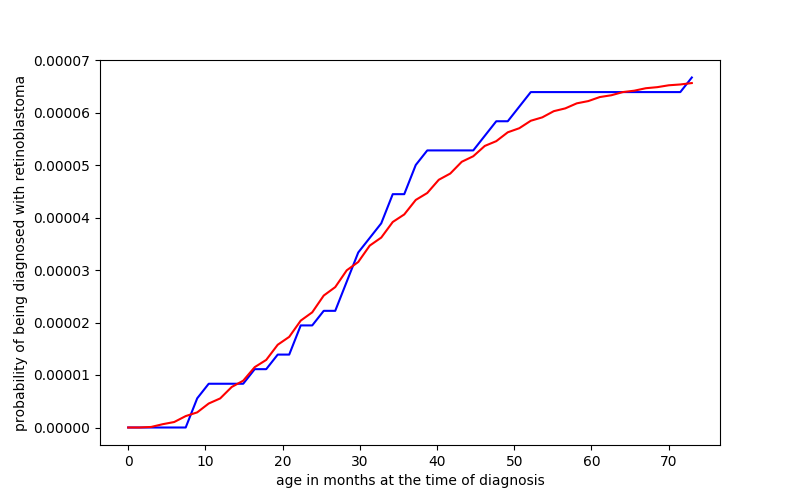
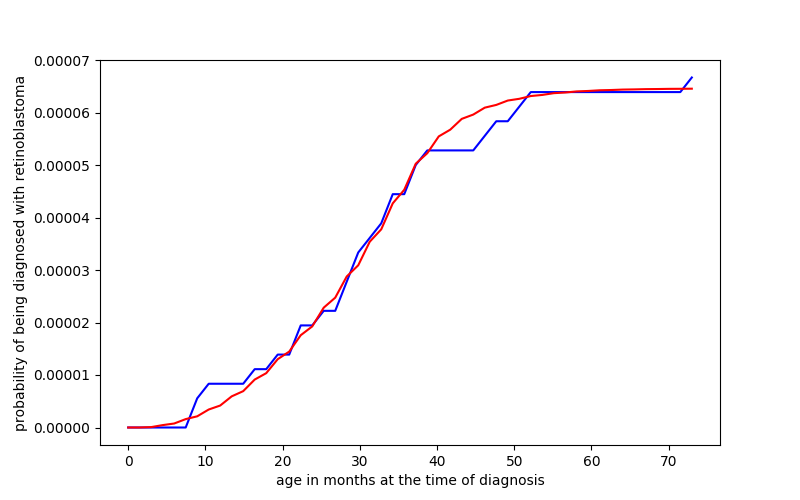
first implementation of 1(iv) all working

diff --git a/asgn1.py b/asgn1.py
@@ -2,14 +2,14 @@ from cancer import *
 
 unilateral = [] # Stores unilateral retinoblastoma data set
 p1, p2 = 0., 0. # Random hit probabilities
-ecdf = lambda t: sm.distributions.ECDF(unilateral)(t)*rb_rate # Empirical cdf of age at the time of diagnosis 
-# of unilateral retinoblastoma 
+ecdf = 0 # Empirical cdf of age at the time of diagnosis of unilateral retinoblastoma 
 
 def assignment_1_i():
-	global unilateral, ecdf_norm
+	global unilateral, ecdf
 	print('Problem 1(i)\n{}'.format(div))
 	unilateral = read_data("./../data/03_cancer_unilateralretinoblastoma.csv")[0]
-	
+	ecdf = lambda t: sm.distributions.ECDF(unilateral)(t)*rb_rate
+
 	def model(t, p): 
 		return (1-((1-p)**t + t*p*(1-p)**(t-1))**(2*cell_count))*rb_rate
 
@@ -33,18 +33,18 @@ def assignment_1_ii():
 		while i <= T:
 			total = total + _p1*(1-_p1)**(i-1)*(1-_p2)**(T-i)
 			i = i+1
-		return (1 - total**(2*cell_count))*rb_rate
+		return (1 - total**(2*cell_count))
 
 	def loss(p):
-		return sum([(model(t, p)-ecdf(t))**2 for t in range(36)])
+		return integrate.quad(lambda t: (ecdf(t)-model(t, p))**2, 0, 36)[0]
 
-	p1, p2 = op.minimize(loss, [1e-6, 40e-6]).x
+	p1, p2 = op.minimize(loss, [40e-8, 1e-8]).x
 	result = lambda t: model(t, [p1, p2])
-	print('p1 = {}, p2 = {}, relative error =  {}%\n{}'.format(p1, p2, rel_err(ecdf, result, [0, 73]), div))
+	print('p1 = {}, p2 = {}, relative error =  {}%\n{}'.format(p1, p2, rel_err(ecdf, result, [0, 36]), div))
 	fit_plot(ecdf, result, [0, 73], 'age in months at the time of diagnosis',\
 	 'probability of being diagnosed with retinoblastoma', 'two random factors (unilateral)')
 
-def assignment_1_iii():
+def assignment_1_iv():
 	print('Problem 1(iii)\n{}'.format(div))
 
 	def model(t, a):
@@ -60,14 +60,42 @@ def assignment_1_iii():
 				j = j+1
 			total = total + p1*(1-p1)**(i-1)*prod
 			i = i+1
-		return (1 - total**(2*cell_count))*rb_rate
+		return (1 - total**(2*cell_count))
 
 	def loss(a):
-		return sum([(model(t, a)-ecdf(t))**2 for t in range(73)])
+		return integrate.quad(lambda t: (ecdf(t)-model(t, a))**2, 0, 73)[0]
 
-	a = op.minimize_scalar(loss, bounds=(0,1), method='bounded').x
+	a = op.minimize_scalar(loss, bounds=(0, 5), method='bounded').x
 	result = lambda t: model(t, a)
-	print('a = {}, relative error =  {}%'.format(a, rel_err(ecdf, result, [0, 73])))
+	print('a = {}, relative error =  {}%\n{}'.format(a, rel_err(ecdf, result, [0, 73]), div))
 	fit_plot(ecdf, result, [0, 73], 'age in months at the time of diagnosis',\
 	 'probability of being diagnosed with retinoblastoma', 'decaying p2 (unilateral)')
+				
+
+def assignment_1_iv():
+	print('Problem 1(iii)\n{}'.format(div))
+
+	def model(t, a):
+		i, T =  1, int(t)
+		total = (1-p1)**T
+		while i <= T:
+			j, prod = 1, 1
+			while j <= i-1:
+				if j <= 36:
+					prod = prod*(1-p1)
+				else:
+					prod = prod*(1-p1*np.exp(-a*(j-36)))
+				j = j+1
+			total = total + p1*(1-p2)**(T-i)*prod
+			i = i+1
+		return (1 - total**(2*cell_count))
+
+	def loss(a):
+		return integrate.quad(lambda t: (ecdf(t)-model(t, a))**2, 0, 73)[0]
+
+	a = op.minimize_scalar(loss, bounds=(0, 10), method='bounded').x
+	result = lambda t: model(t, a)
+	print('a = {}, relative error =  {}%\n{}'.format(a, rel_err(ecdf, result, [0, 73]), div))
+	fit_plot(ecdf, result, [0, 73], 'age in months at the time of diagnosis',\
+	 'probability of being diagnosed with retinoblastoma', 'decaying p1 (unilateral)')
 				

diff --git a/main.py b/main.py
@@ -1,6 +1,7 @@
-import asgn1, asgn2
+import asgn1, asgn2, warnings
 
+warnings.filterwarnings('ignore')
 asgn1.assignment_1_i()
 asgn1.assignment_1_ii()
 asgn1.assignment_1_iii()
-#asgn1.assignment_1_iv()
+asgn1.assignment_1_iv()
